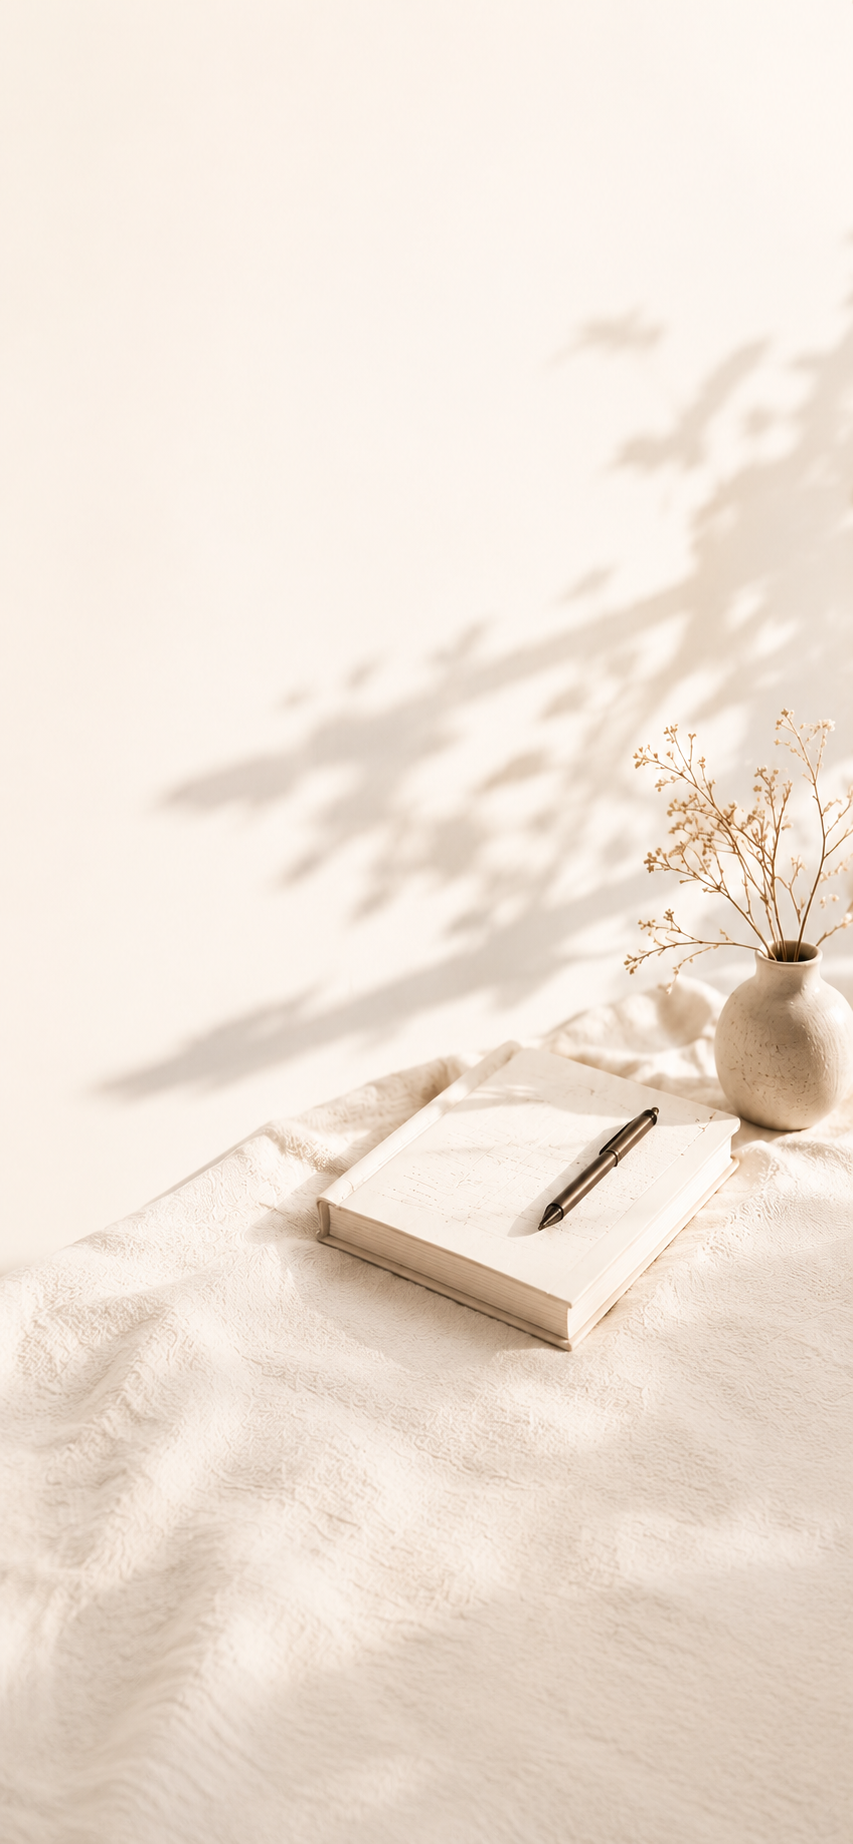
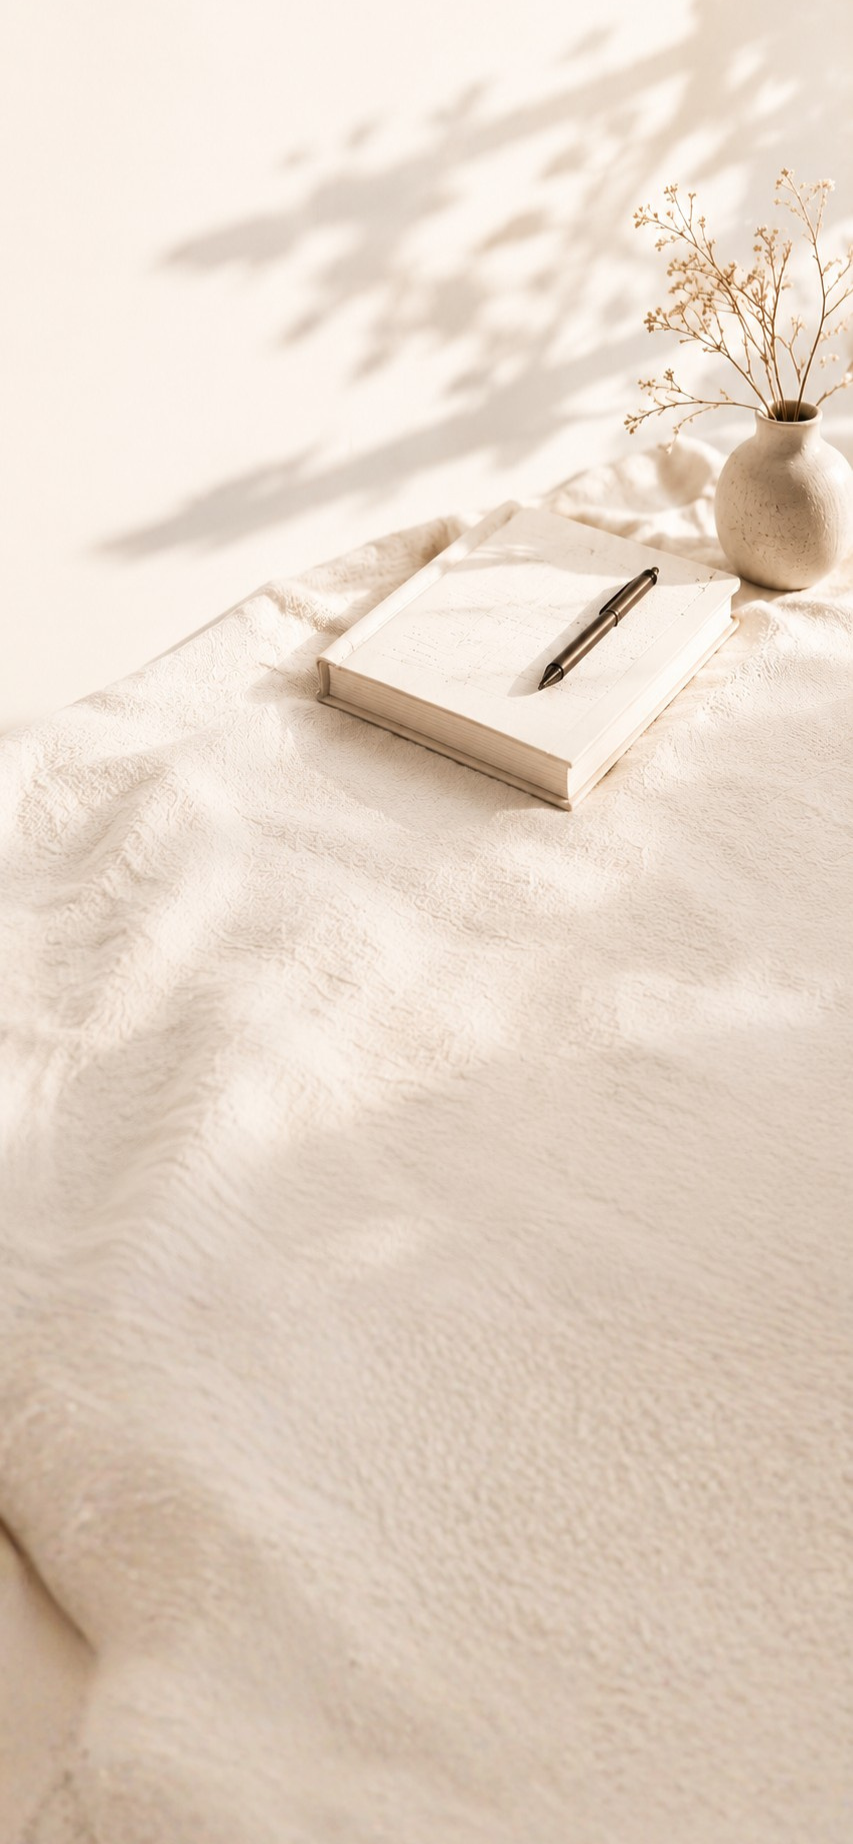
fix: add transparency and blur to homepage card

diff --git a/src/app/page.tsx b/src/app/page.tsx
@@ -21,7 +21,7 @@ export default async function HomePage() {
         className="absolute inset-0 bg-cover bg-no-repeat"
         style={{
           backgroundImage: "url('/hero-bg.png')",
-          backgroundPosition: 'right 65%',
+          backgroundPosition: 'right 80%',
         }}
       />
 
@@ -41,7 +41,7 @@ export default async function HomePage() {
         </div>
 
         {/* Floating bottom card */}
-        <div className="mx-4 mb-10 bg-white rounded-3xl px-6 pt-7 pb-7 shadow-xl">
+        <div className="mx-4 mb-10 bg-white/85 backdrop-blur-sm rounded-3xl px-6 pt-7 pb-7 shadow-xl">
           {/* Pencil icon */}
           <div className="flex justify-center mb-4">
             <div className="w-11 h-11 rounded-full bg-[#FBF7F2] flex items-center justify-center">